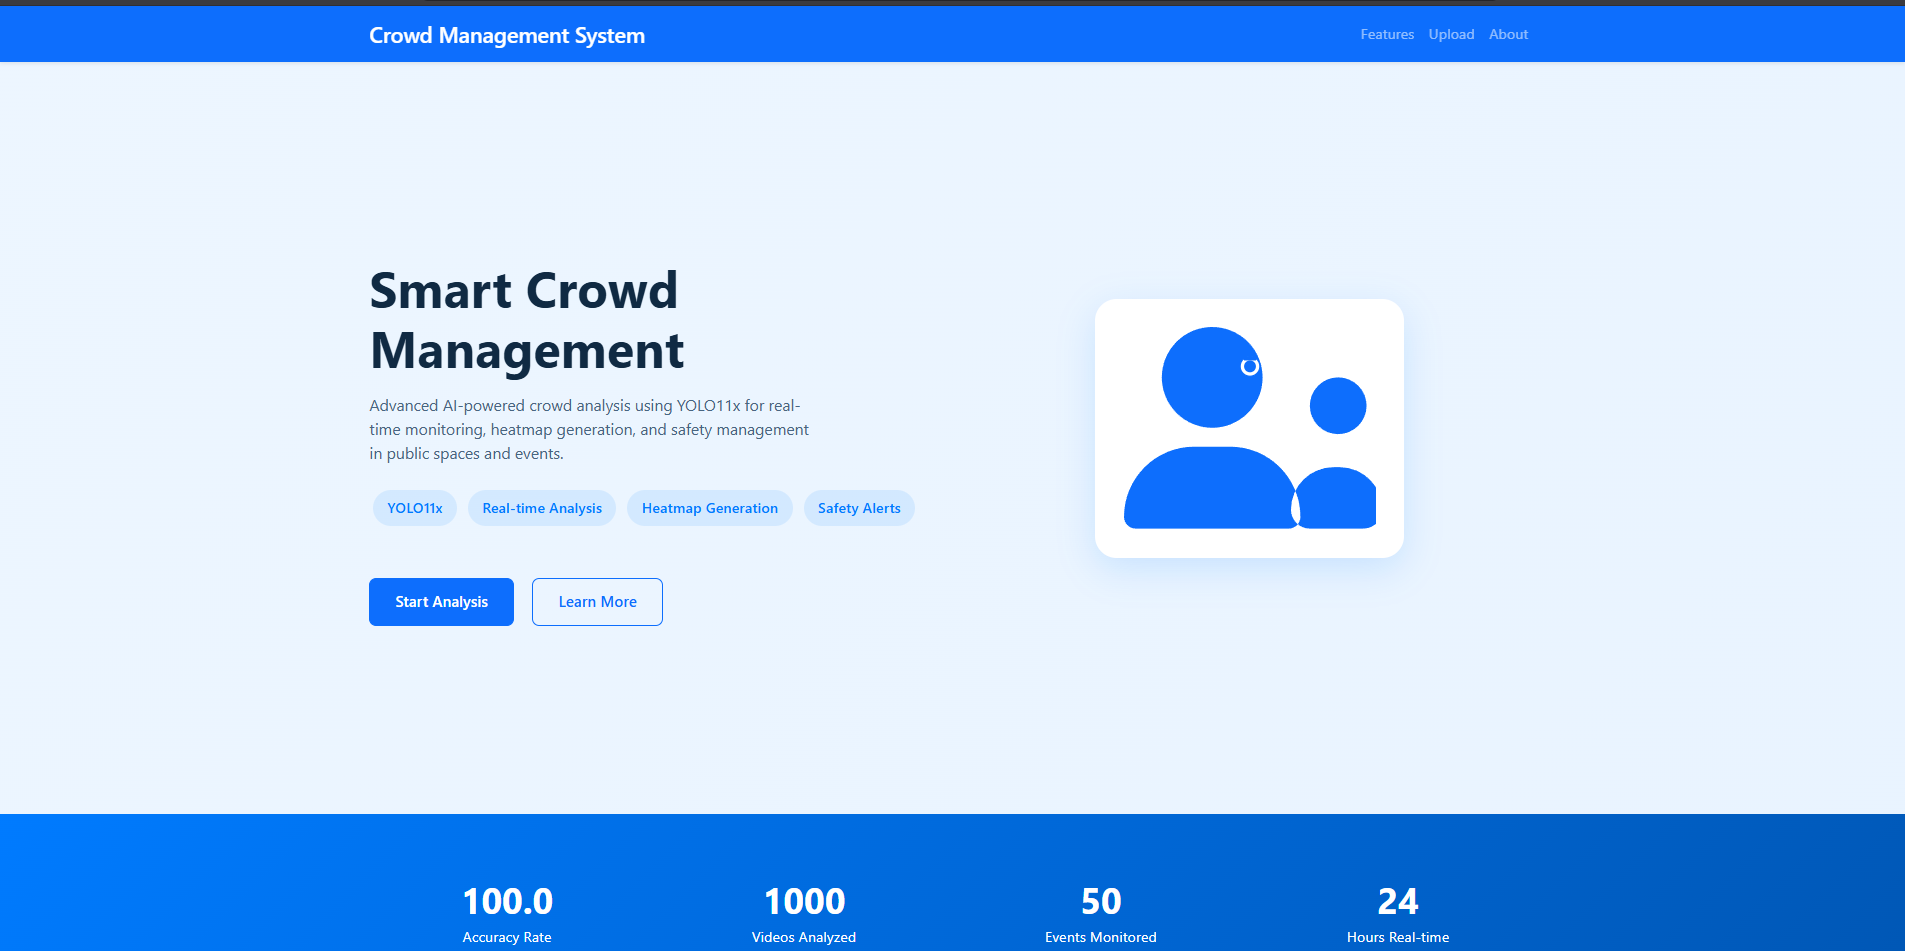
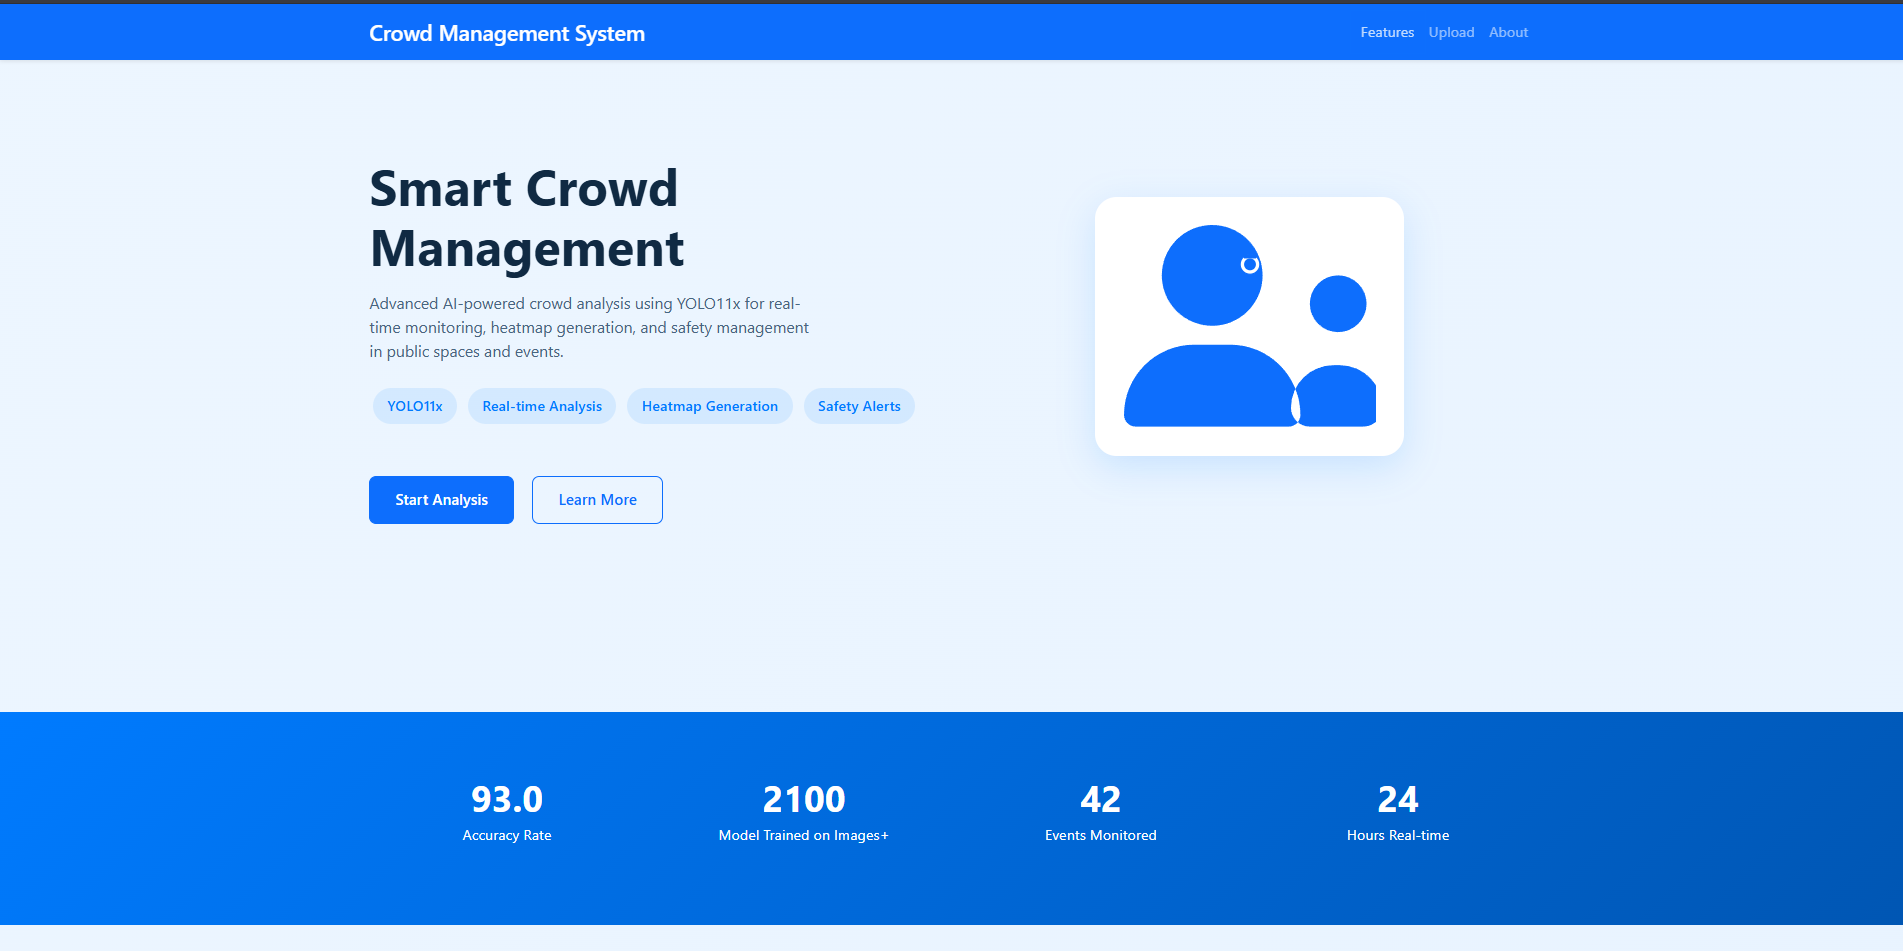
Updated Readme

diff --git a/templates/index.html b/templates/index.html
@@ -186,19 +186,19 @@
       <div class="row text-center">
         <div class="col-md-3 col-6 mb-4">
           <div class="stat-item">
-            <span class="stat-number" data-count="99.5">0</span>
+            <span class="stat-number" data-count="92.7">0</span>
             <span>Accuracy Rate</span>
           </div>
         </div>
         <div class="col-md-3 col-6 mb-4">
           <div class="stat-item">
-            <span class="stat-number" data-count="1000">0</span>
-            <span>Videos Analyzed</span>
+            <span class="stat-number" data-count="2100">0</span>
+            <span>Model Trained on Images+</span>
           </div>
         </div>
         <div class="col-md-3 col-6 mb-4">
           <div class="stat-item">
-            <span class="stat-number" data-count="50">0</span>
+            <span class="stat-number" data-count="42">0</span>
             <span>Events Monitored</span>
           </div>
         </div>

diff --git a/README.md b/README.md
@@ -41,7 +41,7 @@ CMS is an advanced crowd management platform designed to enhance safety, efficie
 *(Please ensure your screenshot files are in a `screenshots` folder or update paths accordingly)*
 
 ![Main Dashboard](./templates/assets/dashboard.png) 
-(./templates/assets/dashboard2.png) 
+![Main Dashboard2](./templates/assets/dashboard2.png) 
 *Main dashboard with video upload and feature highlights*
 
 ![Live Camera Feed](./templates/assets/live_preview.png)  
